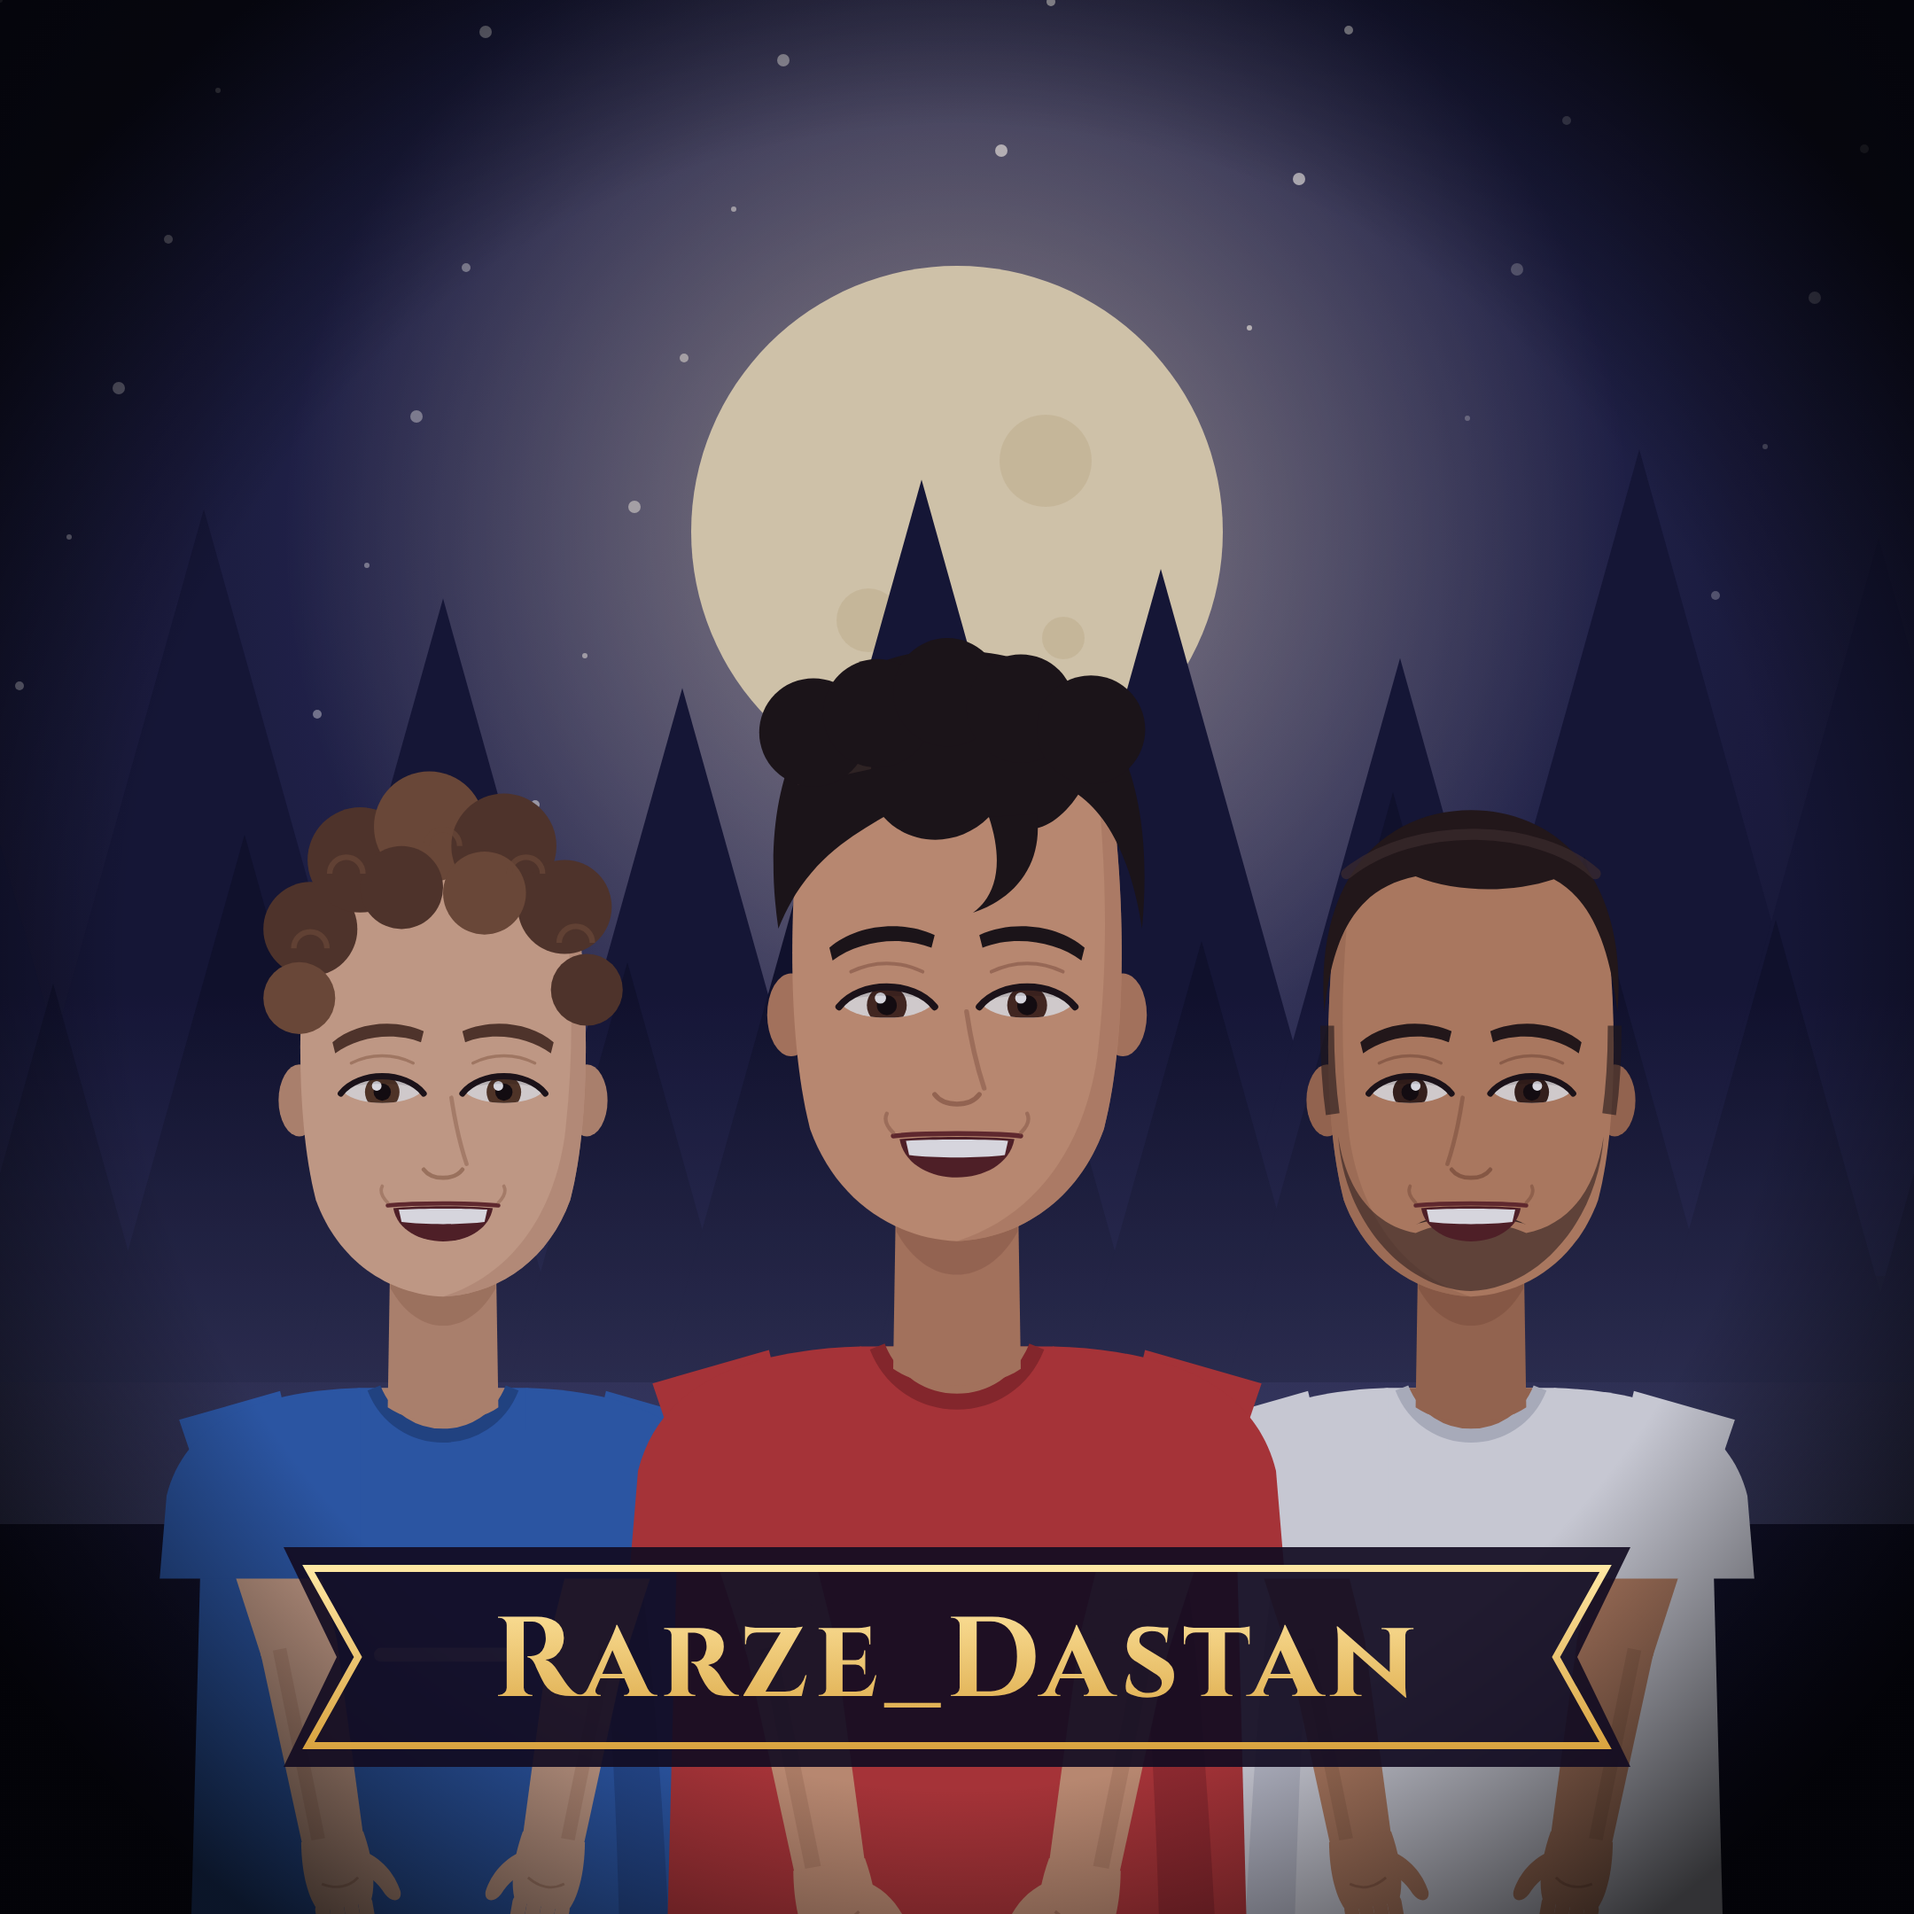
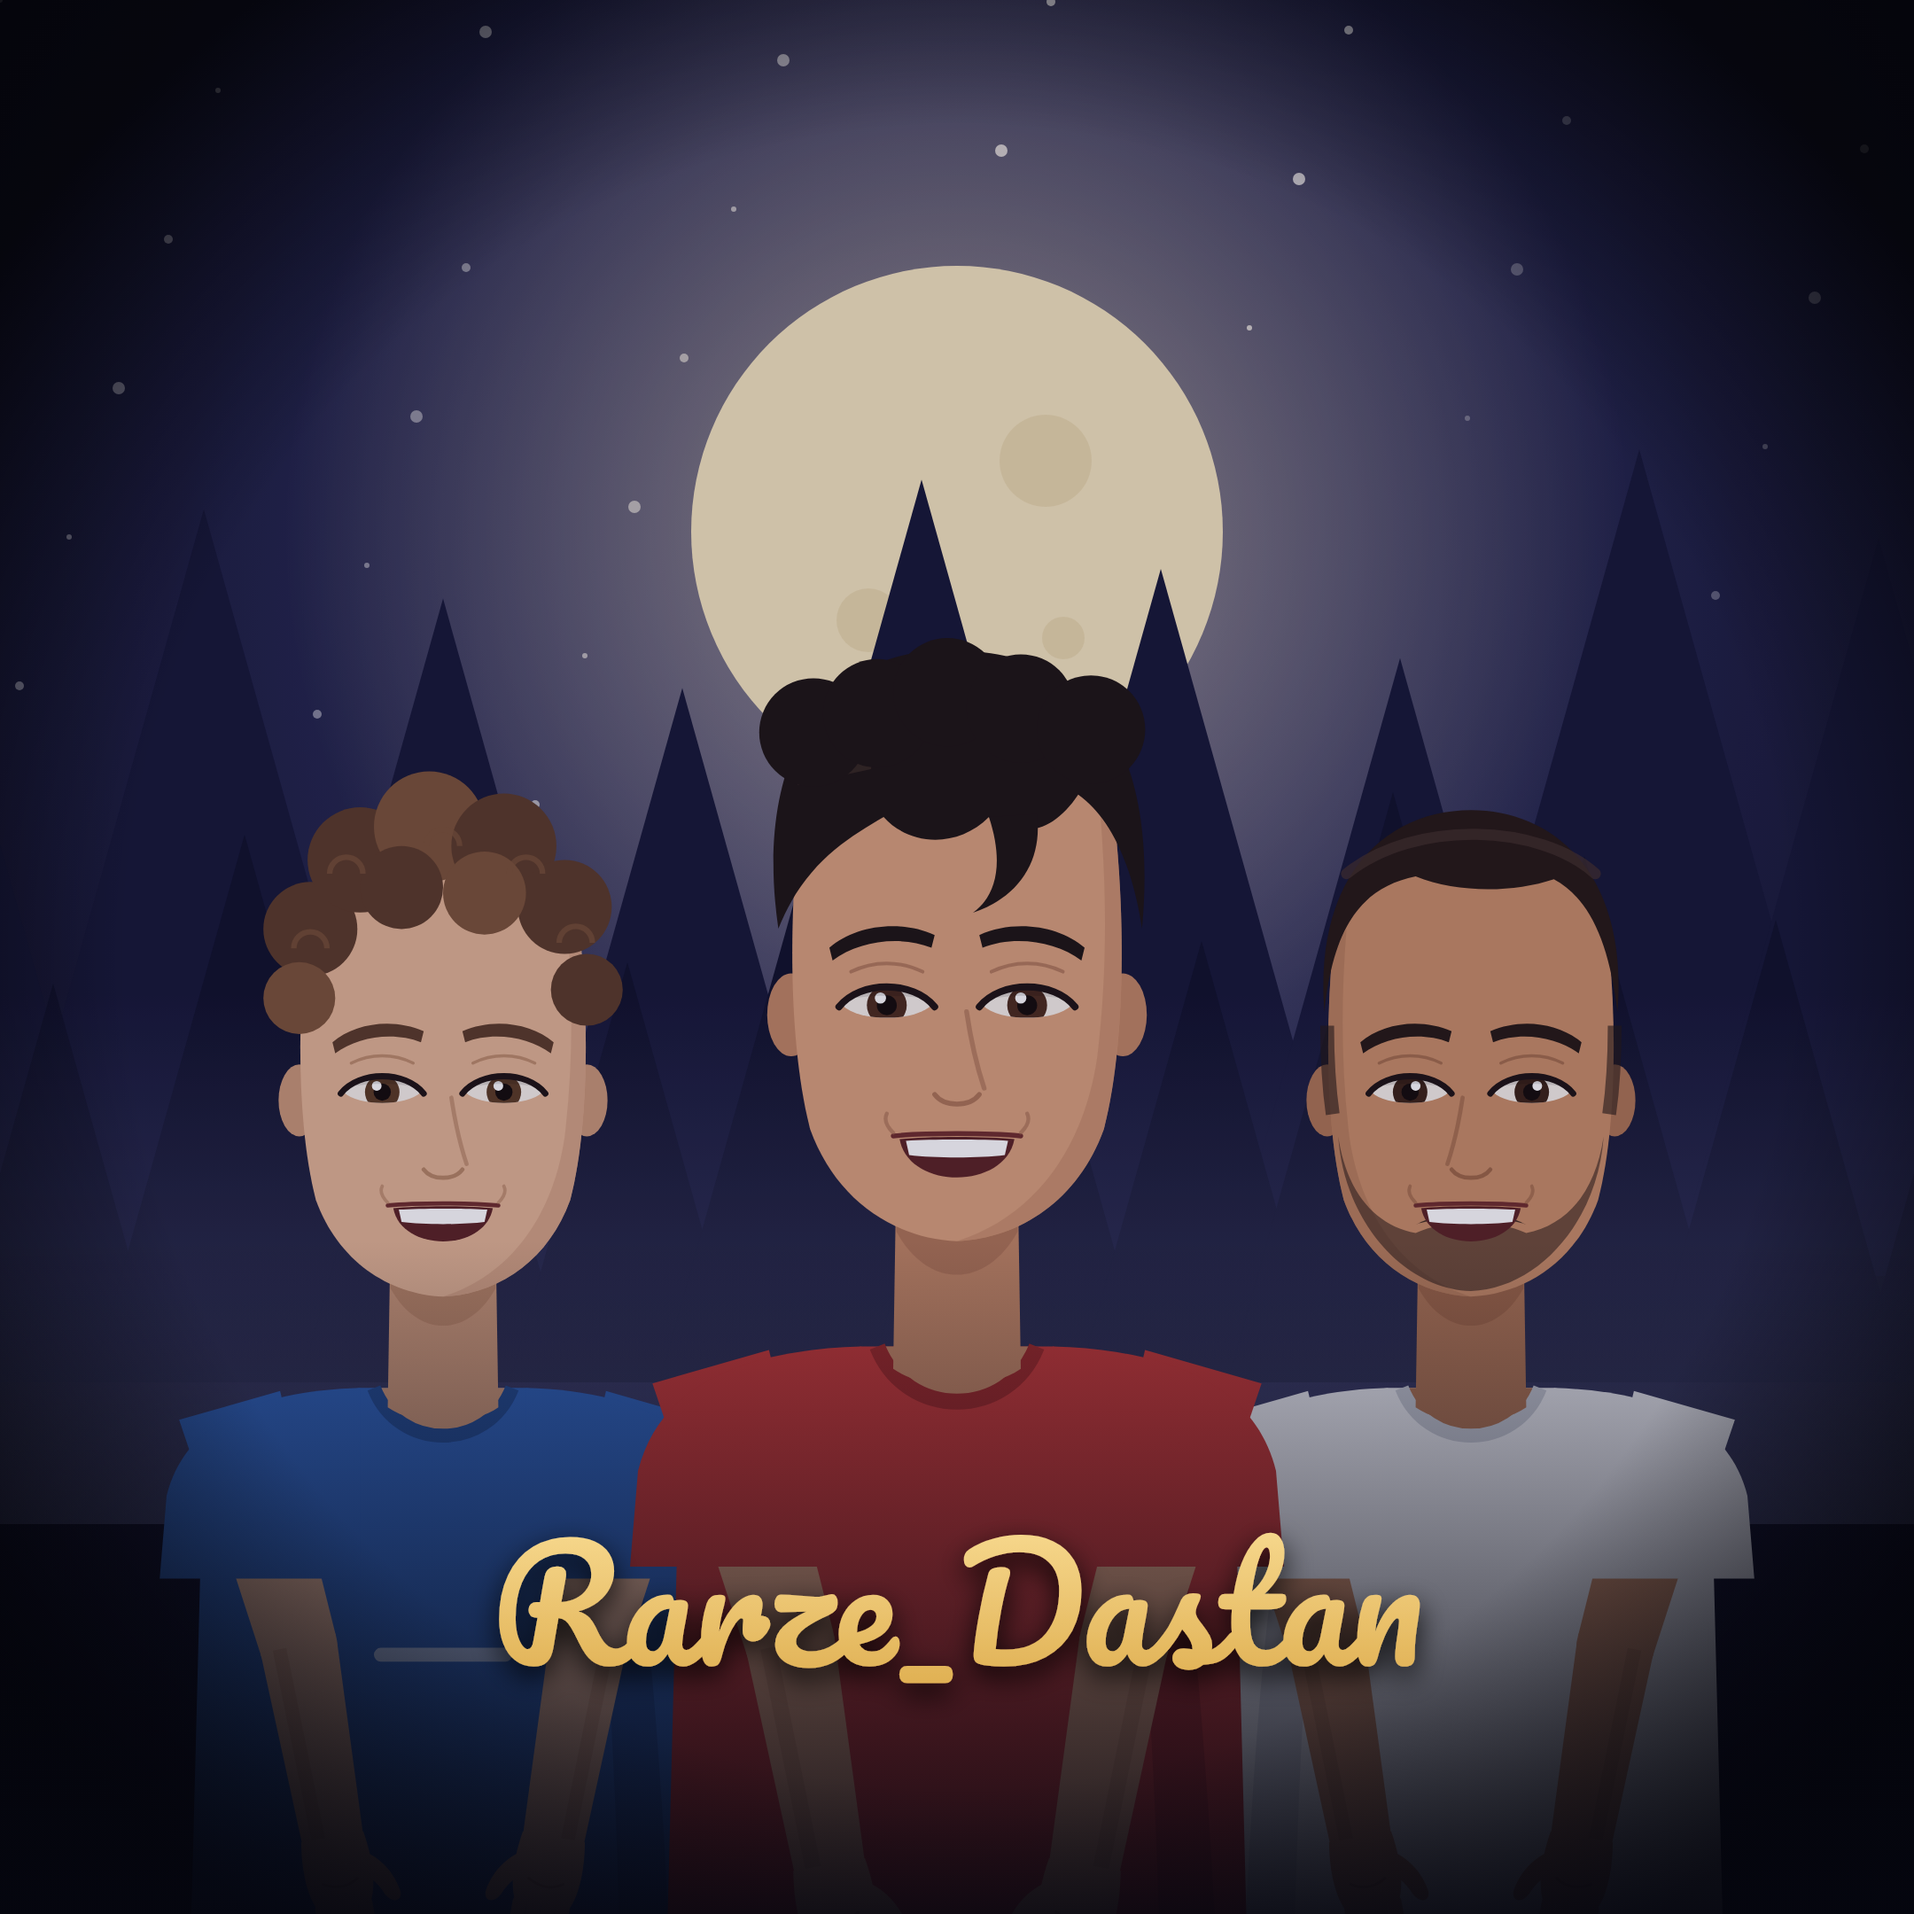
profile picture: plain script name (Pacifico), no ribbon
Claude-Session: https://claude.ai/code/session_018hMAn5DChMvQUs3Ho2zBUk

Changed region(s): [[0.062, 0.6824, 0.9306, 1.0]]

diff --git a/hyperframes/profile/profile.html b/hyperframes/profile/profile.html
@@ -1,4 +1,4 @@
-<!doctype html><html><head><meta charset="utf-8"><link href="https://fonts.googleapis.com/css2?family=Cinzel:wght@700&display=block" rel="stylesheet"><style>html,body{margin:0;background:#000}</style></head><body><svg xmlns="http://www.w3.org/2000/svg" viewBox="0 0 1080 1080" width="1080" height="1080">
+<!doctype html><html><head><meta charset="utf-8"><link href="https://fonts.googleapis.com/css2?family=Pacifico&display=block" rel="stylesheet"><style>html,body{margin:0;background:#000}</style></head><body><svg xmlns="http://www.w3.org/2000/svg" viewBox="0 0 1080 1080" width="1080" height="1080">
 <defs>
   <radialGradient id="sky" cx="50%" cy="32%" r="75%"><stop offset="0" stop-color="#3a3f7a"/><stop offset="0.55" stop-color="#1b1d3e"/><stop offset="1" stop-color="#0a0b1a"/></radialGradient>
   <radialGradient id="moonGlow" cx="540" cy="300" r="380" gradientUnits="userSpaceOnUse"><stop offset="0" stop-color="#ffe9b0" stop-opacity="0.55"/><stop offset="1" stop-color="#ffe9b0" stop-opacity="0"/></radialGradient>
@@ -289,9 +289,8 @@
   </g><path d="M -60,222 C -130,224 -186,244 -200,300 L -205,360 L -60,360 Z" fill="#c43a36"/><path d="M 60,222 C 130,224 186,244 200,300 L 205,360 L 60,360 Z" fill="#c43a36"/></g>
 <rect y="0" width="1080" height="1080" fill="#1a1440" opacity="0.18"/>
 <rect width="1080" height="1080" fill="url(#vig)"/>
-<g transform="translate(540,935)">
-  <path d="M -380,-62 L 380,-62 L 350,0 L 380,62 L -380,62 L -350,0 Z" fill="#120c22" opacity="0.92"/>
-  <path d="M -366,-50 L 366,-50 L 338,0 L 366,50 L -366,50 L -338,0 Z" fill="none" stroke="url(#gold)" stroke-width="4"/>
-  <text x="0" y="22" font-family="Cinzel, 'Playfair Display', Georgia, serif" font-weight="700" font-size="64" letter-spacing="3" fill="url(#gold)" text-anchor="middle">Rarze_Dastan</text>
-</g>
+<defs><linearGradient id="shade" x1="0" y1="0" x2="0" y2="1"><stop offset="0" stop-color="#05060f" stop-opacity="0"/><stop offset="1" stop-color="#05060f" stop-opacity="0.9"/></linearGradient></defs>
+<rect y="700" width="1080" height="380" fill="url(#shade)"/>
+<defs><filter id="sh" x="-20%" y="-50%" width="140%" height="200%"><feDropShadow dx="0" dy="6" stdDeviation="8" flood-color="#000" flood-opacity="0.85"/></filter></defs>
+<text x="540" y="940" font-family="'Pacifico'" font-size="86" fill="url(#gold)" text-anchor="middle" filter="url(#sh)">Rarze_Dastan</text>
 </svg></body></html>
